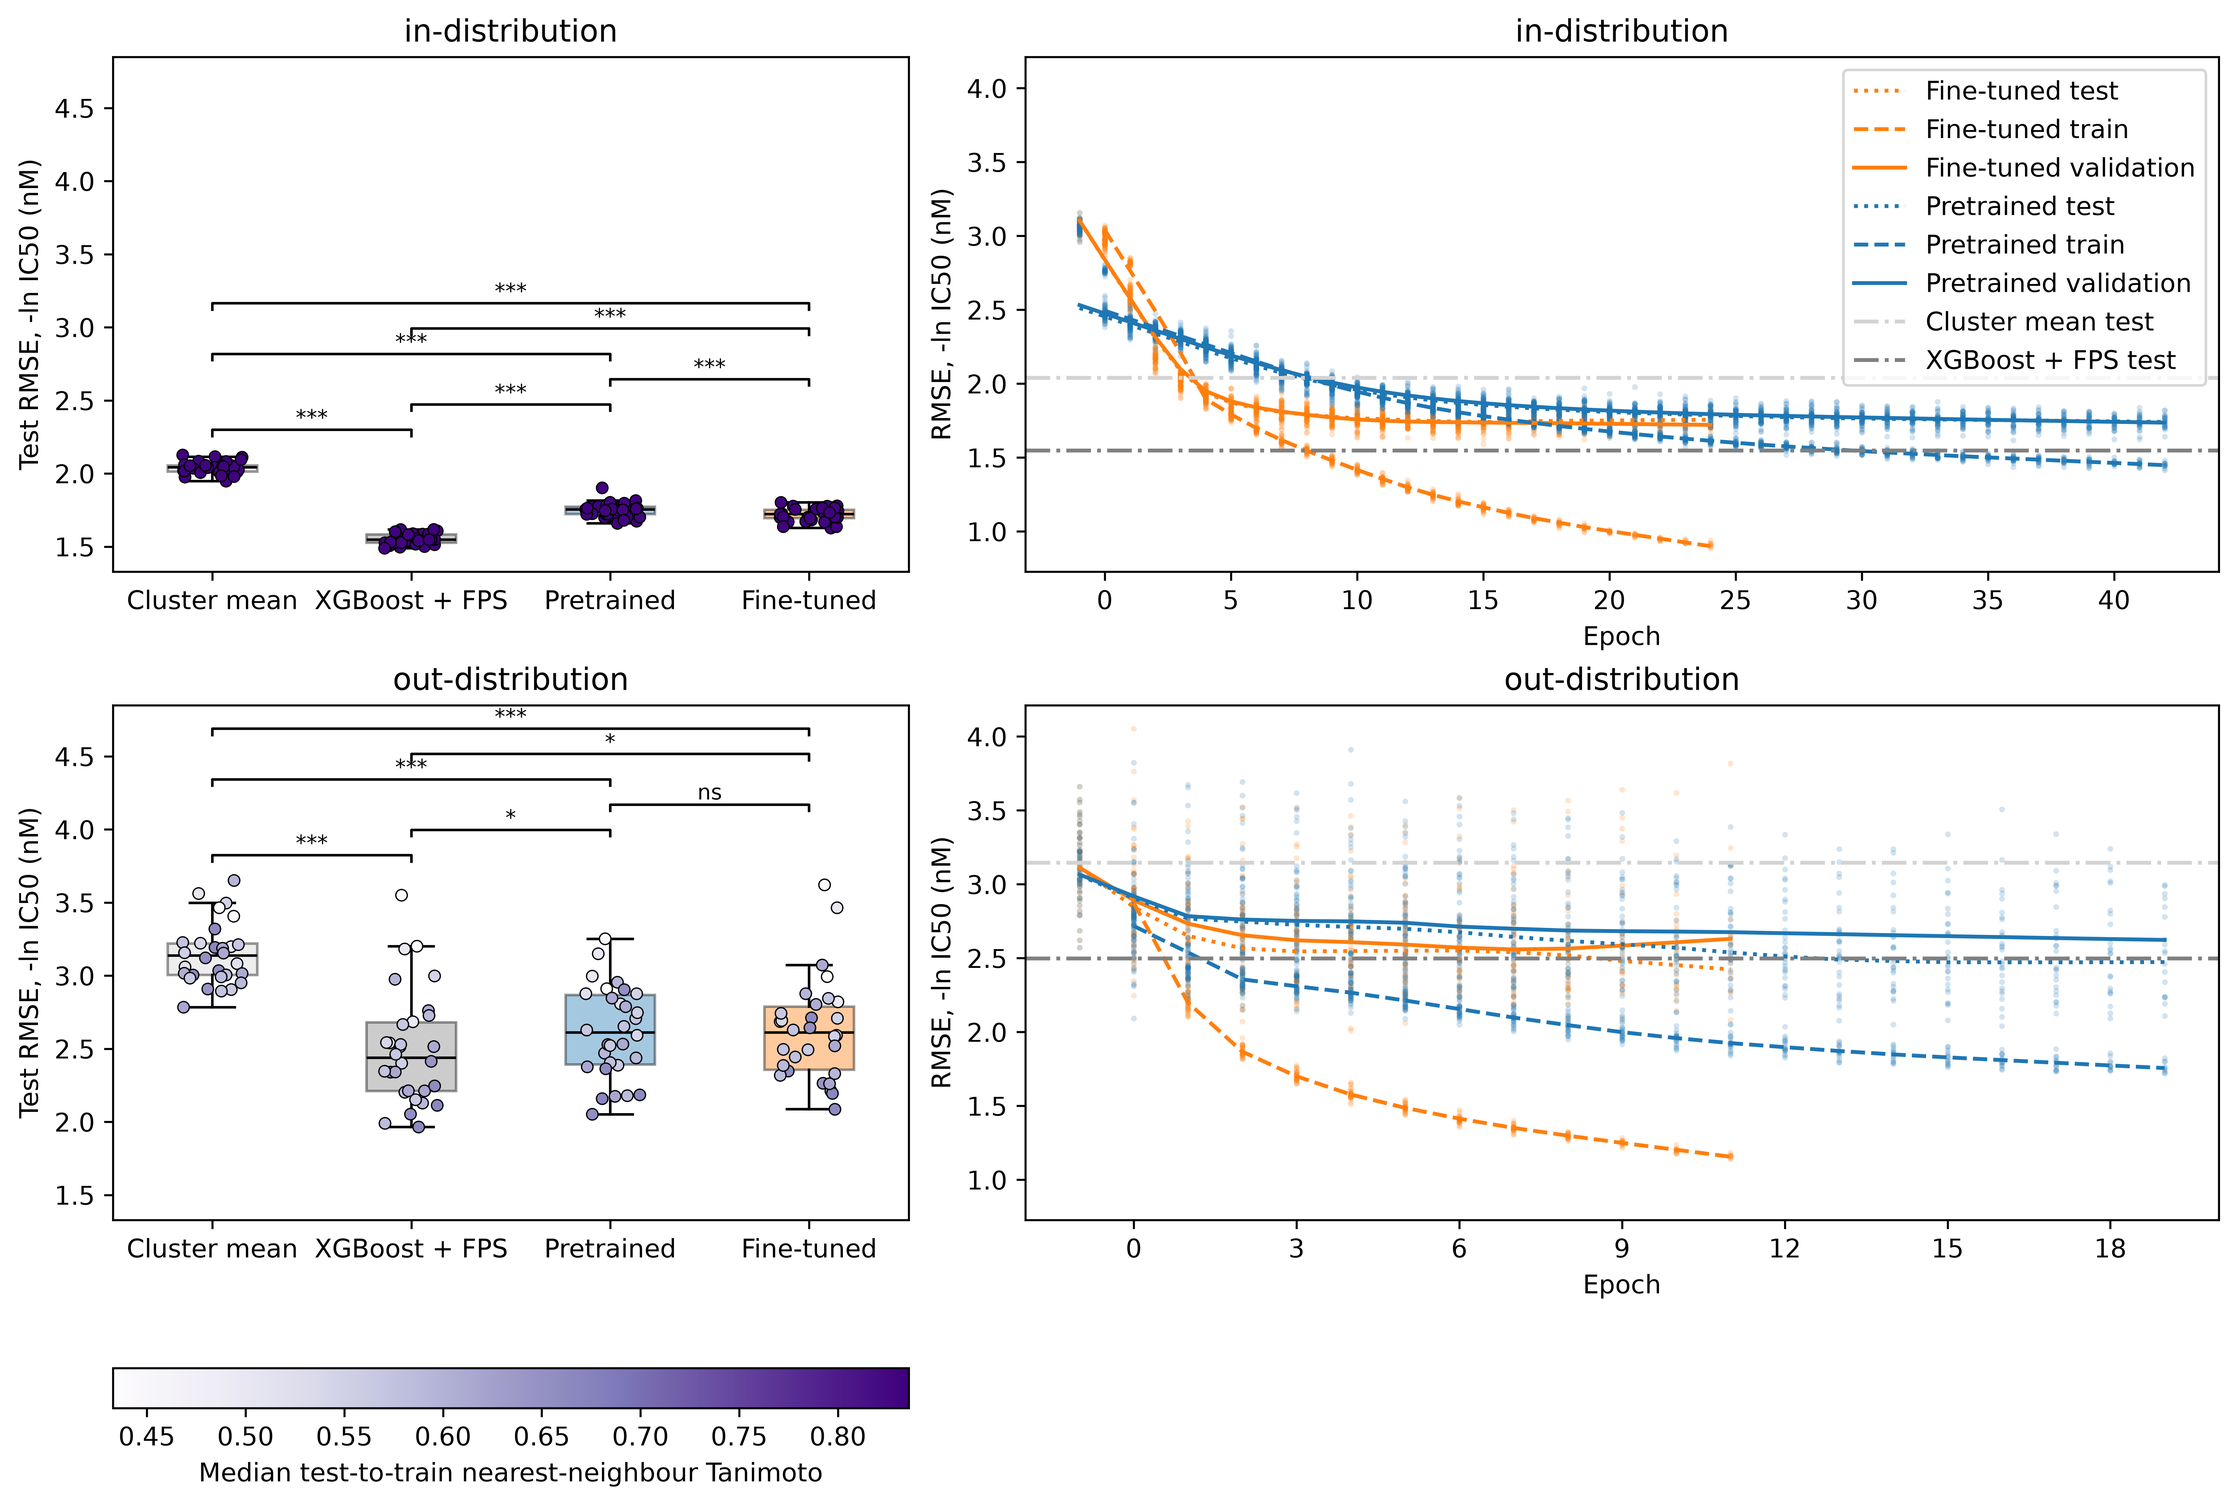
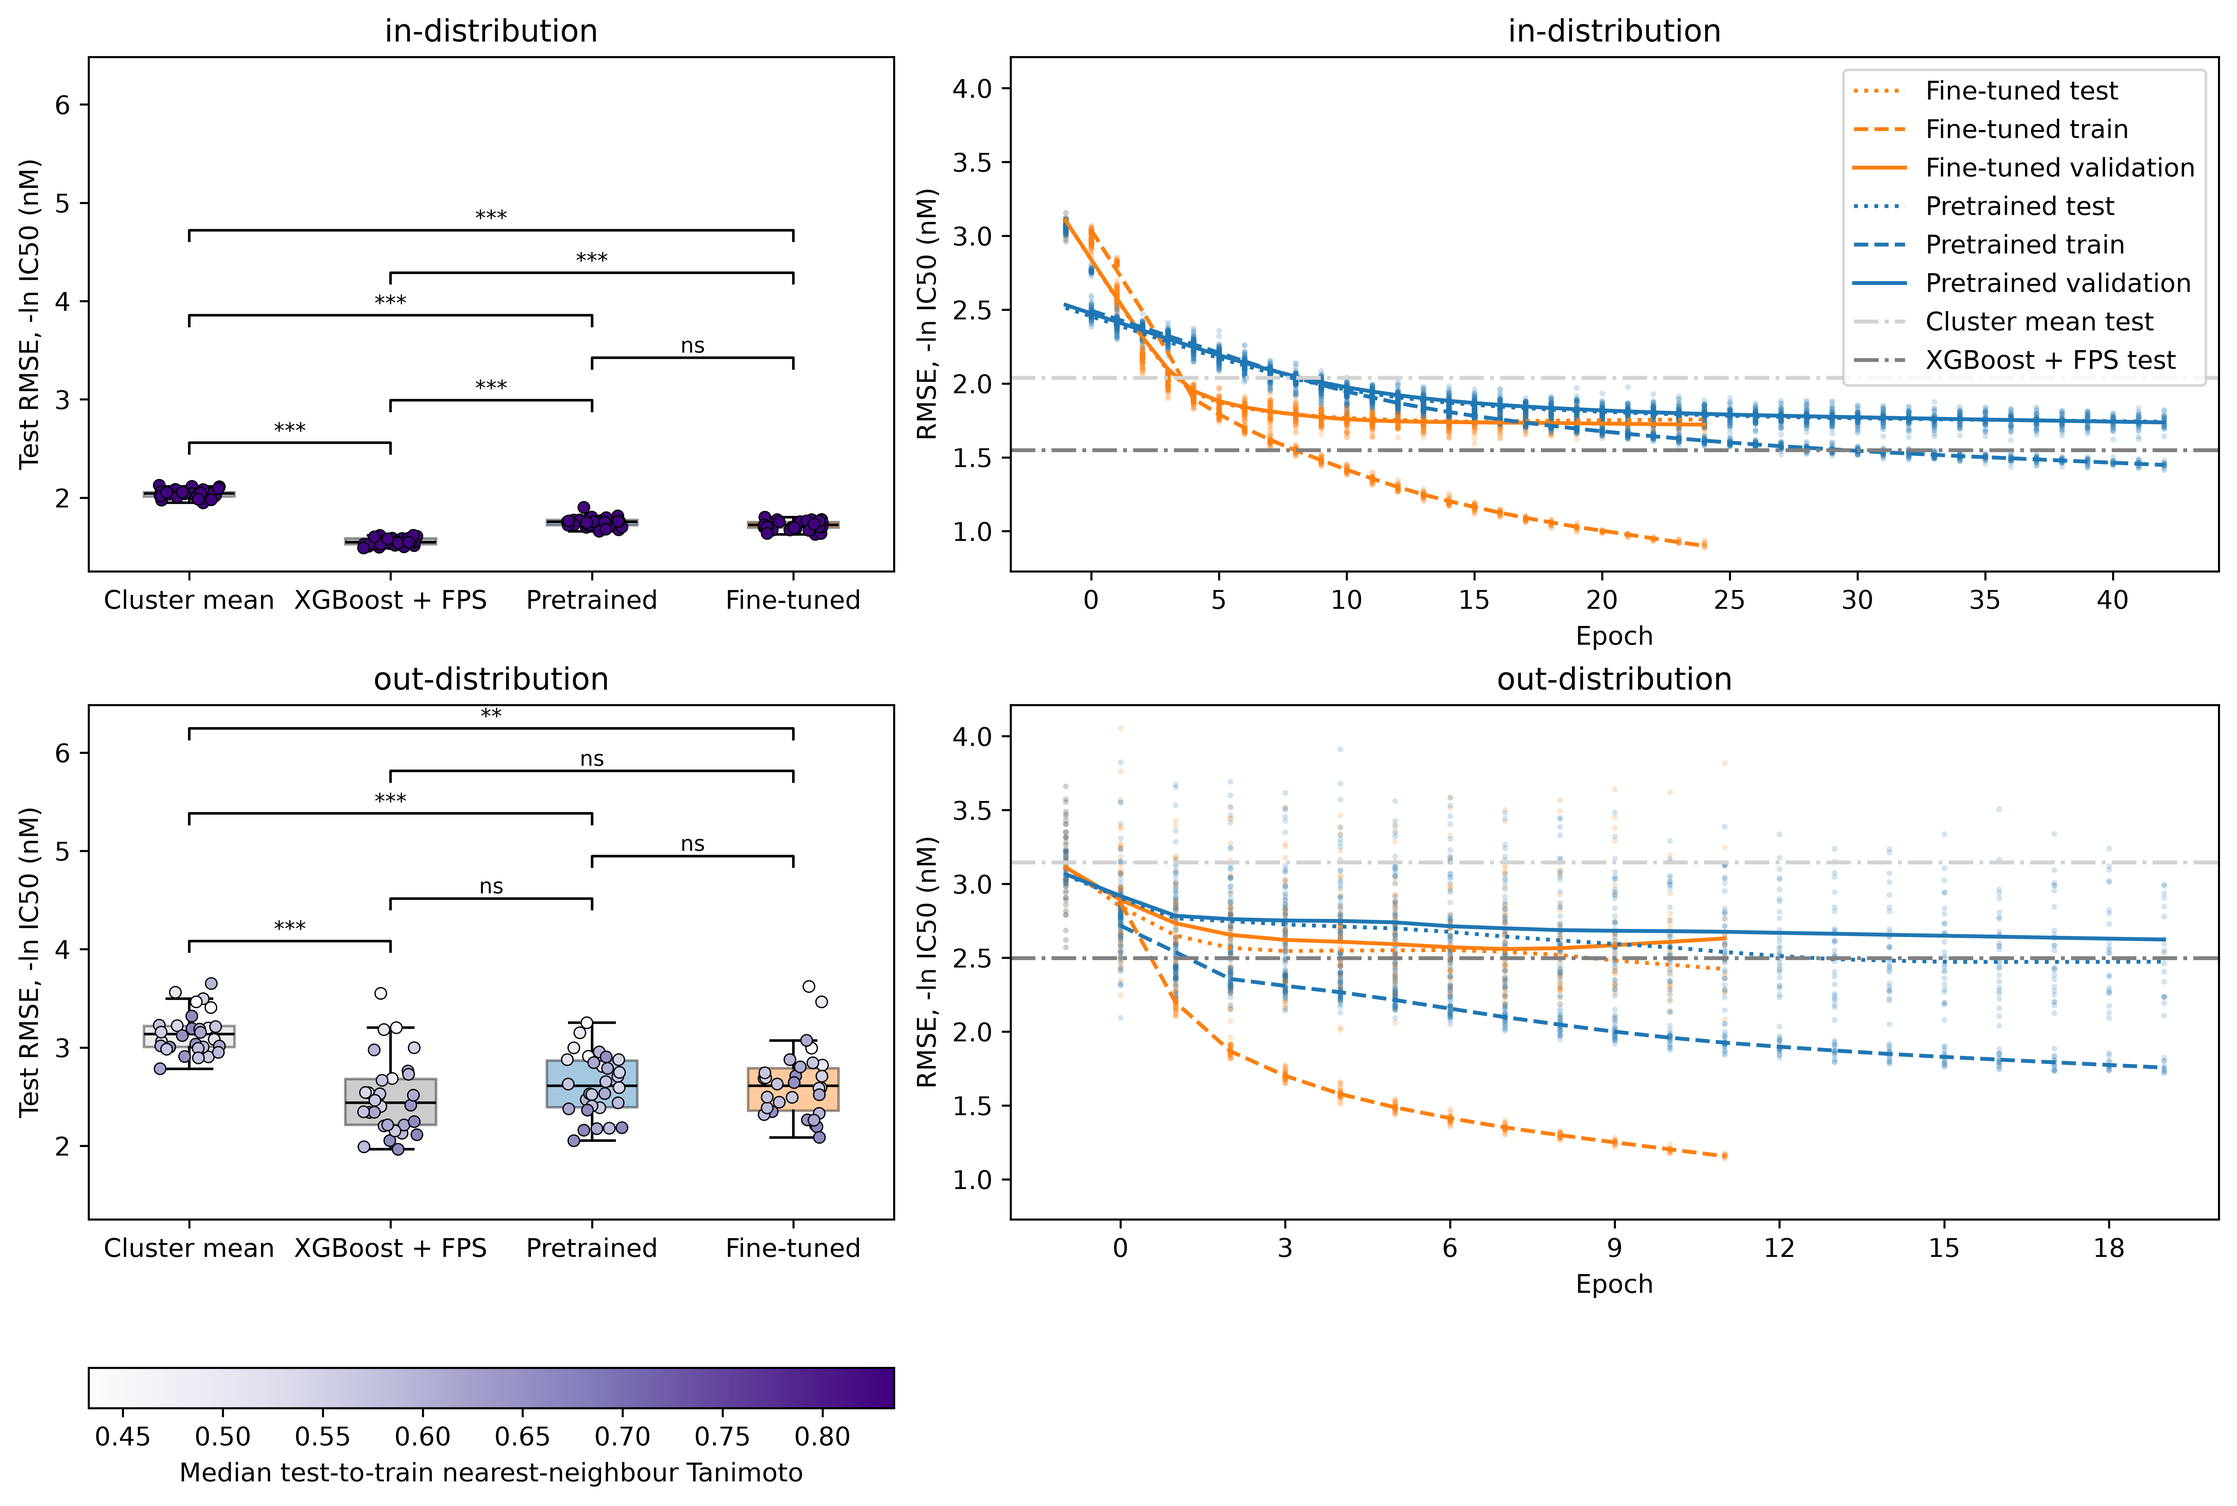
tweak sig brackets

diff --git a/src/bertsheep/results.py b/src/bertsheep/results.py
@@ -8,13 +8,13 @@ from typing import NamedTuple
 import matplotlib.pyplot as plt
 import numpy as np
 import pandas as pd
-import statsmodels.formula.api as smf
 import umap
 from matplotlib.animation import FuncAnimation, PillowWriter
 from matplotlib.cm import ScalarMappable
 from matplotlib.colors import ListedColormap, Normalize
 from matplotlib.figure import Figure
 from matplotlib.ticker import MaxNLocator
+from scipy import stats
 from statsmodels.nonparametric.smoothers_lowess import lowess
 from statsmodels.stats.multitest import multipletests
 
@@ -91,16 +91,16 @@ JITTER = 0.15
 JITTER_SEED = 0
 # Arms tested against each other, in box order. "mean" is left out: every model
 # beats it by a mile, and out-of-distribution it scores exactly as the cluster
-# mean does, so it adds tests without adding information -- and, sharing the
-# mixed model's residual variance, it would move the others' standard errors.
+# mean does, so it adds tests to the Holm family without adding information.
 COMPARED_ARMS = ("cluster_mean", "baseline", "pretrained", "finetuned")
+CONFIDENCE = 0.95
 # Holm keeps Bonferroni's family-wise error rate and is never less powerful.
 P_ADJUST = "holm"
 SIGNIFICANCE_BINS = [0, 0.001, 0.01, 0.05, 1]
 SIGNIFICANCE_LABELS = ["***", "**", "*", "ns"]
 # Gap between stacked brackets, as a share of the test RMSE's range over both
 # distributions: the box rows share a y axis, so one step suits both.
-BRACKET_STEP = 0.08
+BRACKET_STEP = 0.2
 
 # Aligned UMAP coordinates per GIF run. Cached because embedding every
 # checkpoint and aligning the epochs takes minutes, and restyling a figure
@@ -270,20 +270,20 @@ class Results:
 
     def _pairwise(self, distribution: str) -> pd.DataFrame:
         """
-        Every pair of COMPARED_ARMS tested on one distribution's test RMSE,
-        with a linear mixed model that gives each seed a random intercept.
-        Every arm sees the same split for a given seed, and some splits are
-        harder than others for every arm, so the seed is a block. Each seed's
-        intercept takes out that shared difficulty before the arms are compared.
+        Every pair of COMPARED_ARMS tested on one distribution's test RMSE with
+        Nadeau and Bengio's (2003) corrected resampled t-test. Every arm sees
+        the same split for a given seed, so each pair is compared on its
+        per-seed differences, which takes out how hard that seed's split is.
 
-        The arms are coded as cell means (no intercept), so each fixed effect is
-        an arm's mean RMSE and a pair's contrast is one row of +1/-1. The
-        contrasts go through t_test by hand: MixedLM's t_test takes fixed-effect
-        columns only, and the built-in t_test_pairwise also counts the seed
-        variance as a column, so it cannot run on MixedLM.
-        In-distribution the seed variance is close to zero, and statsmodels warns
-        that the estimate is on the boundary. That is expected, and the
-        contrasts are still valid.
+        The seeds are J resplits of one dataset, not J datasets: their training
+        sets overlap, so their differences are positively correlated, and the
+        plain paired t-test's variance, sigma^2 / J, understates how much the
+        mean difference would move on new data. Nadeau and Bengio replace it
+        with (1 / J + n2 / n1) sigma^2, n1 and n2 being the training and test
+        sizes (n1 + n2 = n), and compare against t with J - 1 degrees of
+        freedom. Validation feeds every arm's model selection, so it counts
+        towards n1. The out-of-distribution splits vary n2 by seed, so n2 / n1
+        is averaged over the seeds.
 
         Parameters
         ----------
@@ -295,33 +295,38 @@ class Results:
         pd.DataFrame
             One row per pair, arm_a before arm_b in COMPARED_ARMS order.
             difference is arm_a's RMSE minus arm_b's, so a negative value means
-            arm_a scores better. The p-values are Wald z tests, with p_adjusted
-            corrected for this distribution's pairs.
+            arm_a scores better. ci_low and ci_high bound it at CONFIDENCE, and
+            p_adjusted is p corrected for this distribution's pairs.
         """
         scores = self.df[(self.df["distribution"] == distribution)
                          & self.df["arm"].isin(COMPARED_ARMS)]
-        scores = scores.assign(arm=pd.Categorical(scores["arm"], COMPARED_ARMS))
-        fit = smf.mixedlm("test_rmse ~ 0 + arm", scores, groups=scores["seed"]).fit()
+        # Only seeds every arm has finished can be paired.
+        wide = scores.pivot(index="seed", columns="arm", values="test_rmse").dropna()
+        sizes = scores.groupby("seed")[["n_train", "n_valid", "n_test"]].first().loc[wide.index]
+        ratio = (sizes["n_test"] / (sizes["n_train"] + sizes["n_valid"])).mean()
         pairs = pd.DataFrame(combinations(COMPARED_ARMS, 2), columns=["arm_a", "arm_b"])
-        means = pd.DataFrame(np.eye(len(COMPARED_ARMS)), index=COMPARED_ARMS)
-        tests = fit.t_test(means.loc[pairs["arm_a"]].to_numpy()
-                           - means.loc[pairs["arm_b"]].to_numpy()).summary_frame()
+        differences = wide[pairs["arm_a"]].to_numpy() - wide[pairs["arm_b"]].to_numpy()
+        seeds = len(differences)
+        difference = differences.mean(axis=0)
+        std_err = np.sqrt((1 / seeds + ratio) * differences.var(axis=0, ddof=1))
+        ci_low, ci_high = stats.t.interval(CONFIDENCE, seeds - 1, loc=difference,
+                                           scale=std_err)
+        p = 2 * stats.t.sf(np.abs(difference / std_err), seeds - 1)
         return pairs.assign(
             distribution=distribution,
-            difference=tests["coef"].to_numpy(),
-            std_err=tests["std err"].to_numpy(),
-            ci_low=tests["Conf. Int. Low"].to_numpy(),
-            ci_high=tests["Conf. Int. Upp."].to_numpy(),
-            p=tests["P>|z|"].to_numpy(),
-            p_adjusted=multipletests(tests["P>|z|"], method=P_ADJUST)[1],
+            difference=difference,
+            std_err=std_err,
+            ci_low=ci_low,
+            ci_high=ci_high,
+            p=p,
+            p_adjusted=multipletests(p, method=P_ADJUST)[1],
         )
 
     def comparisons(self) -> pd.DataFrame:
         """
-        The pairwise arm tests for every distribution. Each distribution gets
-        its own mixed model: seeds are not shared between them (each has its
-        own splitter), and out-of-distribution scores vary about ten times more,
-        so one pooled residual variance would suit neither.
+        The pairwise arm tests for every distribution, tested and corrected
+        for multiple comparisons separately: seeds are not shared between them,
+        since each has its own splitter.
 
         Returns
         -------
@@ -386,8 +391,8 @@ class Results:
         norm : Normalize
             Similarity colour scale, shared by both distributions.
         comparisons : pd.DataFrame
-            From comparisons(), passed in so the mixed models are fitted once
-            per figure rather than once per panel.
+            From comparisons(), passed in so the tests run once per figure
+            rather than once per panel.
         """
         scores = self.df[(self.df["distribution"] == distribution)
                          & self.df["arm"].isin(COMPARED_ARMS)]

diff --git a/tests/test_results.py b/tests/test_results.py
@@ -3,13 +3,16 @@ from pathlib import Path
 import numpy as np
 import pandas as pd
 import pytest
+from scipy import stats
 
 import bertsheep.results as br
 from bertsheep.results import Results
 from bertsheep.splitters import DISTRIBUTIONS
 
 EPOCHS = 10
-SEEDS = 5  # enough for the mixed model behind q1()'s brackets to fit
+SEEDS = 5  # enough for the paired tests behind q1()'s brackets to have spread
+# One in-distribution split's sizes, shared by every fake run: n2 / n1 = 0.2.
+SPLIT_SIZES = {"n_train": 5868, "n_valid": 1467, "n_test": 1467}
 
 
 @pytest.fixture
@@ -27,7 +30,7 @@ def results_path(tmp_path: Path) -> Path:
             for arm, rmse in (("cluster_mean", 2.0), ("baseline", 1.5)):
                 rows.append({"arm": arm, "distribution": distribution, "seed": seed,
                              "test_rmse": rmse + rng.normal(0, 0.1),
-                             "test_r2": 0.5, "run_dir": None})
+                             "test_r2": 0.5, "run_dir": None, **SPLIT_SIZES})
             for arm in ("pretrained", "finetuned"):
                 run_dir = tmp_path / f"{arm}-{distribution}-{seed}"
                 run_dir.mkdir()
@@ -39,7 +42,7 @@ def results_path(tmp_path: Path) -> Path:
                 }).to_csv(run_dir / "history.csv", index=False)
                 rows.append({"arm": arm, "distribution": distribution, "seed": seed,
                              "test_rmse": 1.0 + rng.normal(0, 0.1), "test_r2": 0.7,
-                             "run_dir": str(run_dir)})
+                             "run_dir": str(run_dir), **SPLIT_SIZES})
     path = tmp_path / "EGFR-wildtype.csv"
     pd.DataFrame(rows).to_csv(path, index=False)
     return path
@@ -100,25 +103,45 @@ def test_similarity_is_median_nearest_train_neighbour(results_path: Path,
     np.testing.assert_allclose(results.similarity.loc[("in", 0)], 0.6)
 
 
-def test_comparisons_find_a_real_gap_and_not_a_null_one(tmp_path: Path) -> None:
-    # Per-seed difficulty shared by every arm, as the grid's splits give; the
-    # baseline 0.2 better than pretrained, and fine-tuned a copy of pretrained
-    # so the null pair is null in the sample too, not just in expectation.
+@pytest.fixture
+def comparisons_path(tmp_path: Path) -> Path:
+    """
+    A results file of 30 seeds per distribution with a per-seed difficulty
+    shared by every arm, as the grid's splits give: the baseline 0.2 better
+    than pretrained, and fine-tuned level with pretrained.
+    """
     rng = np.random.default_rng(0)
     offsets = {"cluster_mean": 1.0, "baseline": 0.0, "pretrained": 0.2, "finetuned": 0.2}
     rows = [
         {"arm": arm, "distribution": distribution, "seed": seed,
-         "test_rmse": 1.5 + offset + difficulty + rng.normal(0, 0.05)}
+         "test_rmse": 1.5 + offset + difficulty + rng.normal(0, 0.05), **SPLIT_SIZES}
         for distribution in DISTRIBUTIONS
         for seed, difficulty in enumerate(rng.normal(0, 0.3, 30))
         for arm, offset in offsets.items()
     ]
-    df = pd.DataFrame(rows)
-    df.loc[df["arm"] == "finetuned", "test_rmse"] = df.loc[
-        df["arm"] == "pretrained", "test_rmse"].to_numpy()
     path = tmp_path / "EGFR-wildtype.csv"
-    df.to_csv(path, index=False)
-    comparisons = Results(path).comparisons()
+    pd.DataFrame(rows).to_csv(path, index=False)
+    return path
+
+
+def test_comparisons_apply_nadeau_bengios_correction(comparisons_path: Path) -> None:
+    # The corrected statistic is the paired t statistic scaled by
+    # sqrt((1 / J) / (1 / J + n2 / n1)), with n1 counting validation.
+    df = pd.read_csv(comparisons_path)
+    wide = df[df["distribution"] == "in"].pivot(index="seed", columns="arm",
+                                                values="test_rmse")
+    paired = stats.ttest_rel(wide["baseline"], wide["pretrained"])
+    seeds = len(wide)
+    ratio = SPLIT_SIZES["n_test"] / (SPLIT_SIZES["n_train"] + SPLIT_SIZES["n_valid"])
+    corrected = paired.statistic * np.sqrt((1 / seeds) / (1 / seeds + ratio))
+    pair = Results(comparisons_path).comparisons().loc[("in", "baseline", "pretrained")]
+    assert pair["difference"] / pair["std_err"] == pytest.approx(corrected)
+    assert pair["p"] == pytest.approx(2 * stats.t.sf(abs(corrected), seeds - 1))
+    assert pair["ci_low"] < pair["difference"] < pair["ci_high"]
+
+
+def test_comparisons_find_a_real_gap_and_not_a_null_one(comparisons_path: Path) -> None:
+    comparisons = Results(comparisons_path).comparisons()
     assert len(comparisons) == len(DISTRIBUTIONS) * 6
     assert (comparisons["p_adjusted"] >= comparisons["p"]).all()
     for distribution in DISTRIBUTIONS:

diff --git a/todo.md b/todo.md
@@ -19,7 +19,9 @@ not do yet, at the level of "what needs building", not how.
 - [x] Swap train/test/validation for train/validation/test (a rename only: each partition keeps its molecules, so no results changed; `out/` was migrated in place)
 - [x] Add/complete a Data section in README detailing EGFR selection + filtering etc
 - [x] Build a basic linear mixed effects model w/ seed as random effect for RMSE; extract p-values from fixed effects comparisons (`Results.comparisons()`, brackets on the q1 boxes)
-    - [ ] Ensure that LMM on performance boxplots are generating figures as expected, even small changes are currently looking significant?
+    - [x] Ensure that LMM on performance boxplots are generating figures as expected, even small changes are currently looking significant? (they were anti-conservative: the seeds are resplits of one dataset with overlapping training sets, and one pooled residual variance served every pair. The LMM is replaced by Nadeau & Bengio's (2003) corrected resampled paired t-test)
+    - [ ] The Nadeau–Bengio correction is only an approximation for the out-of-distribution (Butina scaffold) splits. Its `n2 / n1` overlap term assumes random resplits of a fixed size, but scaffold splits hold out whole clusters (not random molecules) and vary `n_test` by seed (708–2250 on EGFR), so `_pairwise` averages the ratio over seeds. Caveat this in results.md/README, or move to a scaffold-aware test (e.g. a bootstrap over clusters)
+    - [ ] Regenerate `figures/*_q1.png` so its brackets use the corrected test
 - [x] To the boxplots, add points coloured/filled by the median tanimoto similarity of training+test sets (`Results.similarity`: median over test of each molecule's nearest-train-neighbour similarity)
     - [ ] Check this is working as intended  
 - [x] GitHub actions + pytest on every push plus a badge

diff --git a/README.md b/README.md
@@ -84,6 +84,8 @@ Made possible by an approx. 2x speedup from bf16 autocast.
 
 ![Question 1: test RMSE per arm (left; one point per seed, coloured by test-to-train similarity) and RMSE curves (right), in- and out-of-distribution](figures/EGFR-wildtype_q1.png)
 
+Pairwise Nadeau-Bengio corrected p-values, with Benjamini-Hochberg p-value adjustment, are shown above the boxplots.    
+
 **ChemBERTa learns more than cluster identity.** 
 In-distribution performance of all models was higher than the cluster mean, suggesting the models are successfully learning features of the compounds that predict binding to EGFR. 
 
